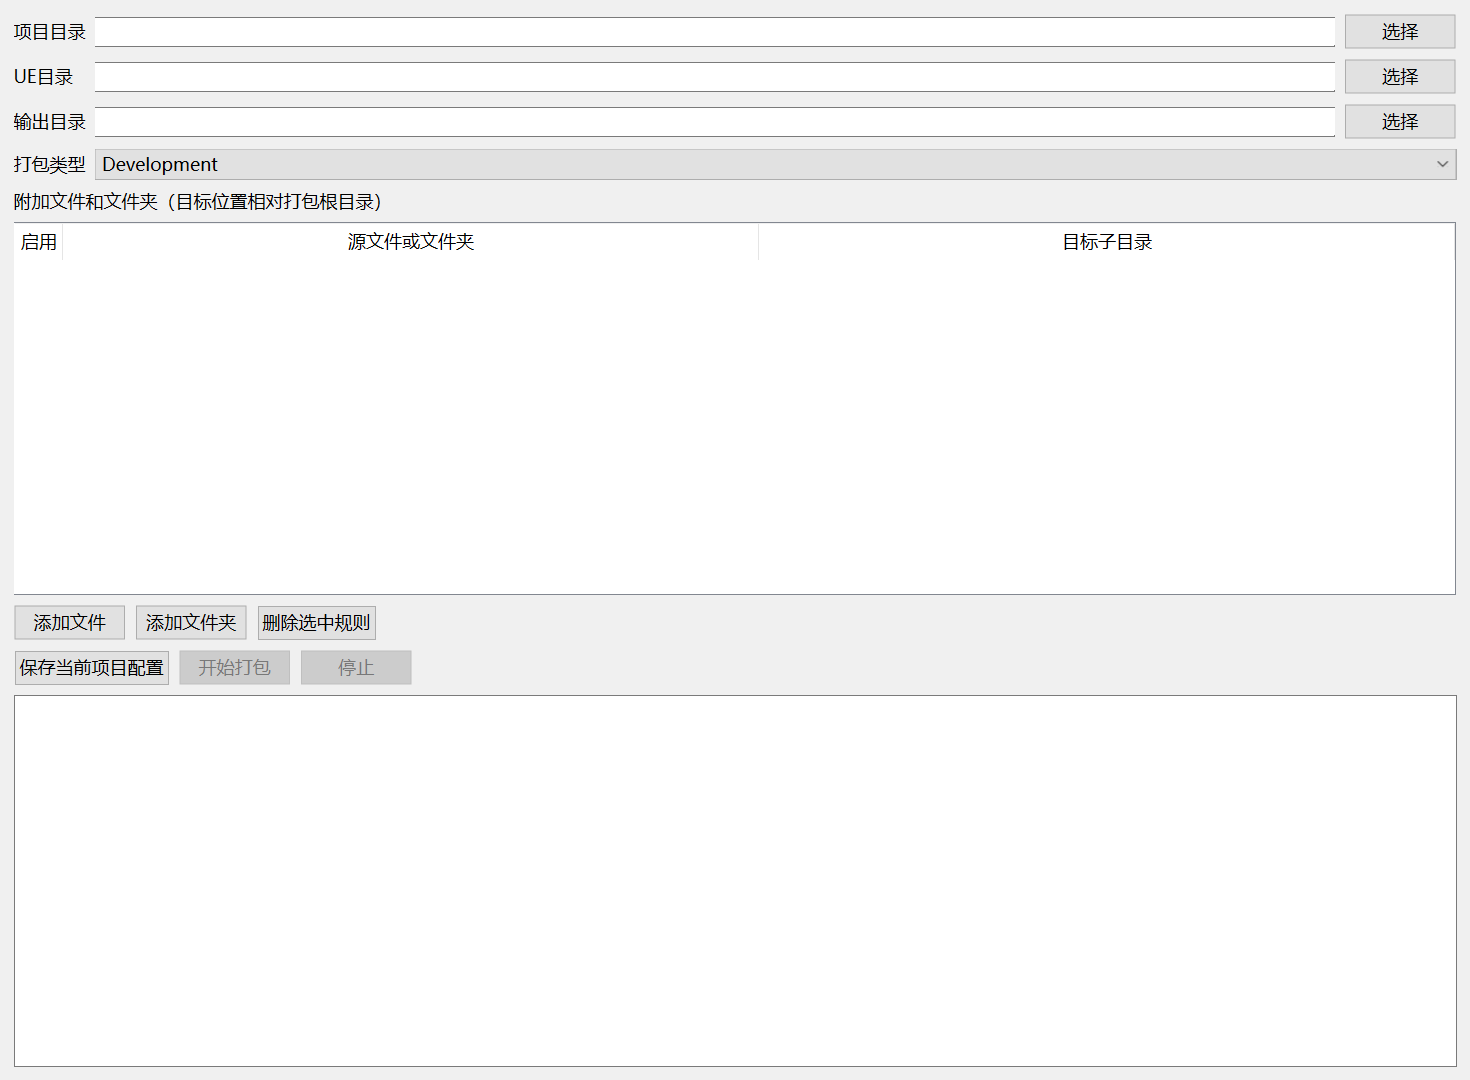
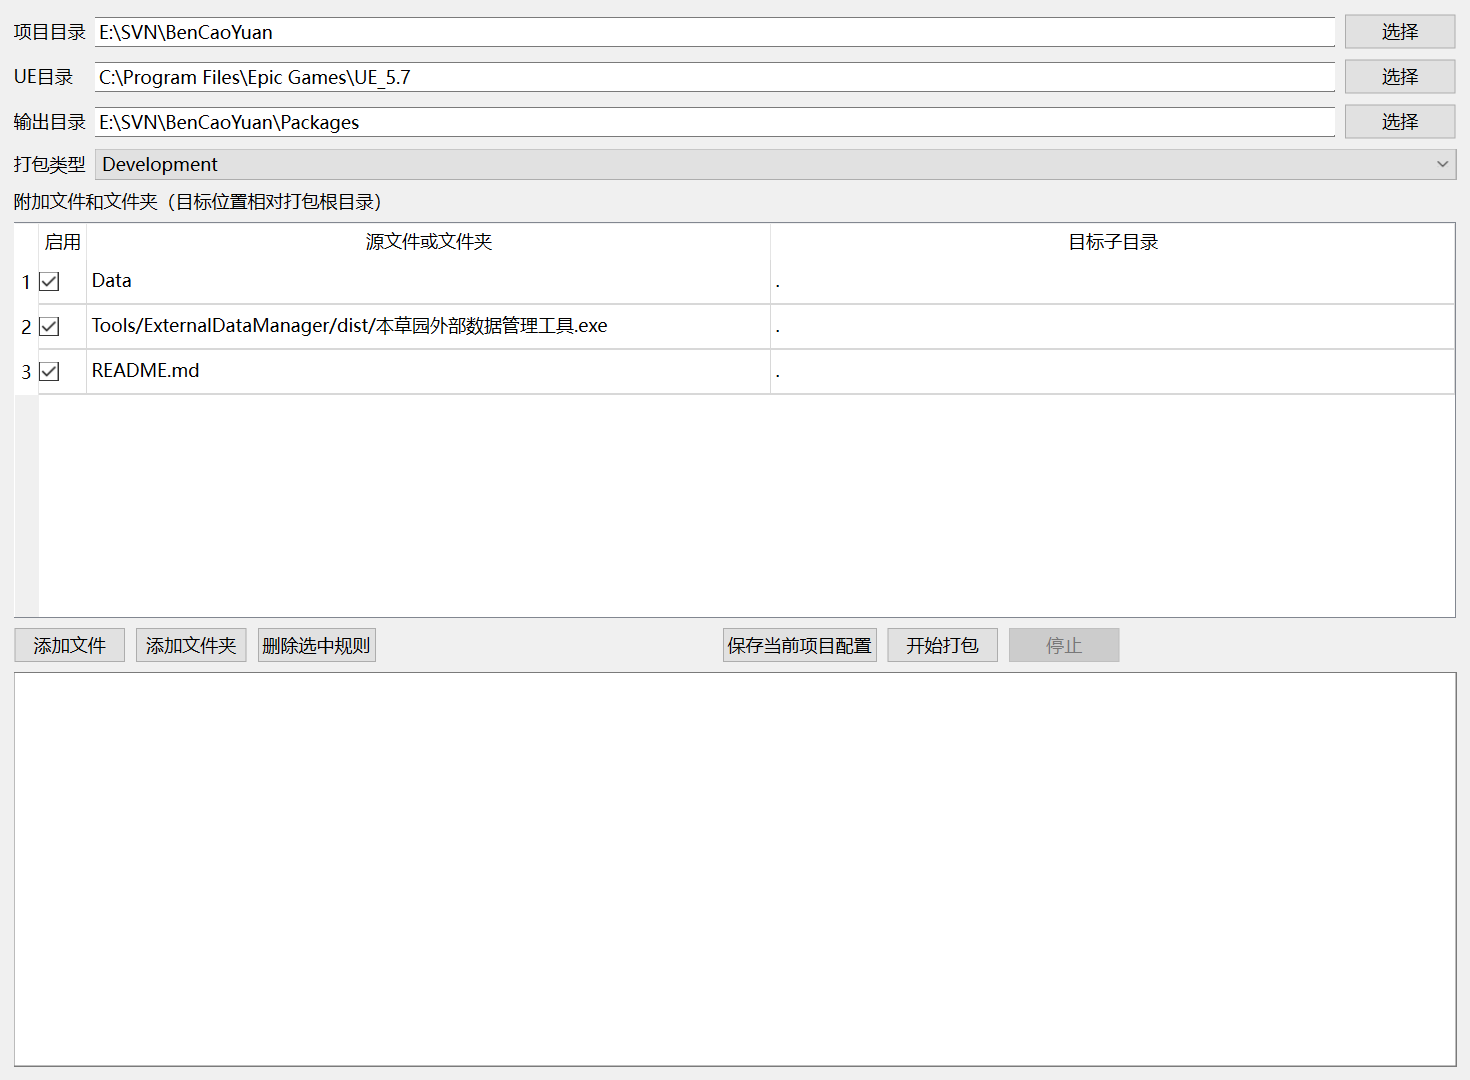
feat: 增加四种项目打包配置

diff --git a/Tests/test_package_manager.py b/Tests/test_package_manager.py
@@ -12,7 +12,7 @@ sys.path.insert(0, str(Path(__file__).resolve().parents[1]))
 
 from Source.config_store import ProjectConfigStore
 from Source import app
-from Source.models import CopyRule
+from Source.models import CONFIGURATIONS, CopyRule
 from Source.packager import PackageRunner, build_command, copy_rule, validate_target_directory
 
 
@@ -73,11 +73,13 @@ with tempfile.TemporaryDirectory() as raw:
     run_uat.parent.mkdir(parents=True)
     run_uat.touch()
     config_a.engine_root = str(engine)
-    config_a.configuration = "Shipping"
-    command, project_file = build_command(config_a)
-    assert project_file.name == "Project & A.uproject"
-    assert "-clientconfig=Shipping" in command and "-compressed" in command
-    assert str(root / "OutputA") in command
+    for configuration in CONFIGURATIONS:
+        config_a.configuration = configuration
+        command, project_file = build_command(config_a)
+        assert project_file.name == "Project & A.uproject"
+        assert f"-clientconfig={configuration}" in command
+        assert ("-compressed" in command) == (configuration == "Shipping")
+        assert str(root / "OutputA") in command
 
     source = project_a / "Extra"
     source.mkdir()
@@ -99,6 +101,7 @@ with tempfile.TemporaryDirectory() as raw:
         encoding="utf-8",
     )
     config_a.output_directory = str(fake_output)
+    config_a.configuration = "Shipping"
     config_a.copy_rules = [CopyRule("Extra", "Extras")]
     completed_root = PackageRunner().run(config_a, on_output=print)
     assert completed_root == fake_output / "Windows"

diff --git a/Source/gui.py b/Source/gui.py
@@ -66,19 +66,17 @@ class MainWindow(QMainWindow):
         self.rules.horizontalHeader().setSectionResizeMode(1, QHeaderView.Stretch)
         self.rules.horizontalHeader().setSectionResizeMode(2, QHeaderView.Stretch)
         layout.addWidget(self.rules)
-        rule_buttons = QHBoxLayout()
+        actions = QHBoxLayout()
         add_file = QPushButton("添加文件")
         add_file.clicked.connect(self._add_file)
-        rule_buttons.addWidget(add_file)
+        actions.addWidget(add_file)
         add_directory = QPushButton("添加文件夹")
         add_directory.clicked.connect(self._add_directory)
-        rule_buttons.addWidget(add_directory)
+        actions.addWidget(add_directory)
         remove = QPushButton("删除选中规则")
         remove.clicked.connect(self._remove_rule)
-        rule_buttons.addWidget(remove)
-        rule_buttons.addStretch()
-        layout.addLayout(rule_buttons)
-        actions = QHBoxLayout()
+        actions.addWidget(remove)
+        actions.addStretch()
         save = QPushButton("保存当前项目配置")
         save.clicked.connect(self._save)
         actions.addWidget(save)

diff --git a/Source/cli.py b/Source/cli.py
@@ -18,7 +18,7 @@ def _add_project_argument(parser: argparse.ArgumentParser, default_root: Path | 
 
 def create_parser(default_root: Path | None) -> argparse.ArgumentParser:
     parser = argparse.ArgumentParser(description="UE 项目打包与附加文件部署工具")
-    parser.add_argument("--version", action="version", version="UEPackageManager 1.0.1")
+    parser.add_argument("--version", action="version", version="UEPackageManager 1.1.0")
     subparsers = parser.add_subparsers(dest="command", required=True)
     show = subparsers.add_parser("config-show", help="显示当前项目的本地配置")
     _add_project_argument(show, default_root)

diff --git a/Source/models.py b/Source/models.py
@@ -5,7 +5,7 @@ from pathlib import Path
 from typing import Any
 
 
-CONFIGURATIONS = ("Development", "Shipping")
+CONFIGURATIONS = ("DebugGame", "Development", "Test", "Shipping")
 PLATFORMS = ("Win64",)
 
 

diff --git a/README.md b/README.md
@@ -21,7 +21,7 @@
 | 项目 | 选择 `.uproject` | 切换项目时整体切换为该项目的独立配置 |
 | UE目录 | 指定Launcher或源码引擎根目录 | 留空时根据 `EngineAssociation` 自动检测 |
 | 输出目录 | 选择Archive输出位置 | 不允许直接使用项目根目录 |
-| 打包类型 | `Development` 或 `Shipping` | Shipping额外启用压缩 |
+| 打包类型 | `DebugGame`、`Development`、`Test` 或 `Shipping` | Shipping额外启用压缩 |
 | 附加文件 | 成功后复制文件或文件夹 | 可分别指定包内目标子目录 |
 
 附加复制仅在UE打包成功后执行。目录复制会跳过 `.trash`、`.svn`、`.git`、`.codex`、`.agents`、`.vs`、`.idea`、`__pycache__` 和 `.pyc`，复制后检查文件完整性。目标位置必须是包根目录内的相对目录，禁止绝对路径、盘符和 `..`。
@@ -74,7 +74,7 @@ Build.bat
 ## 当前范围
 
 - 支持Windows上的Win64项目打包。
-- 支持 `Development` 与 `Shipping`。
+- 支持 `DebugGame`、`Development`、`Test` 与 `Shipping`；不提供通常需要源码引擎的完整 `Debug`。
 - 支持Epic Launcher引擎和手动指定的源码引擎。
 - 不负责插件独立打包；插件发布请使用对应插件打包工具。
 - 不自动关闭Unreal Editor，不删除项目或输出目录，不执行Git、SVN或Perforce操作。
